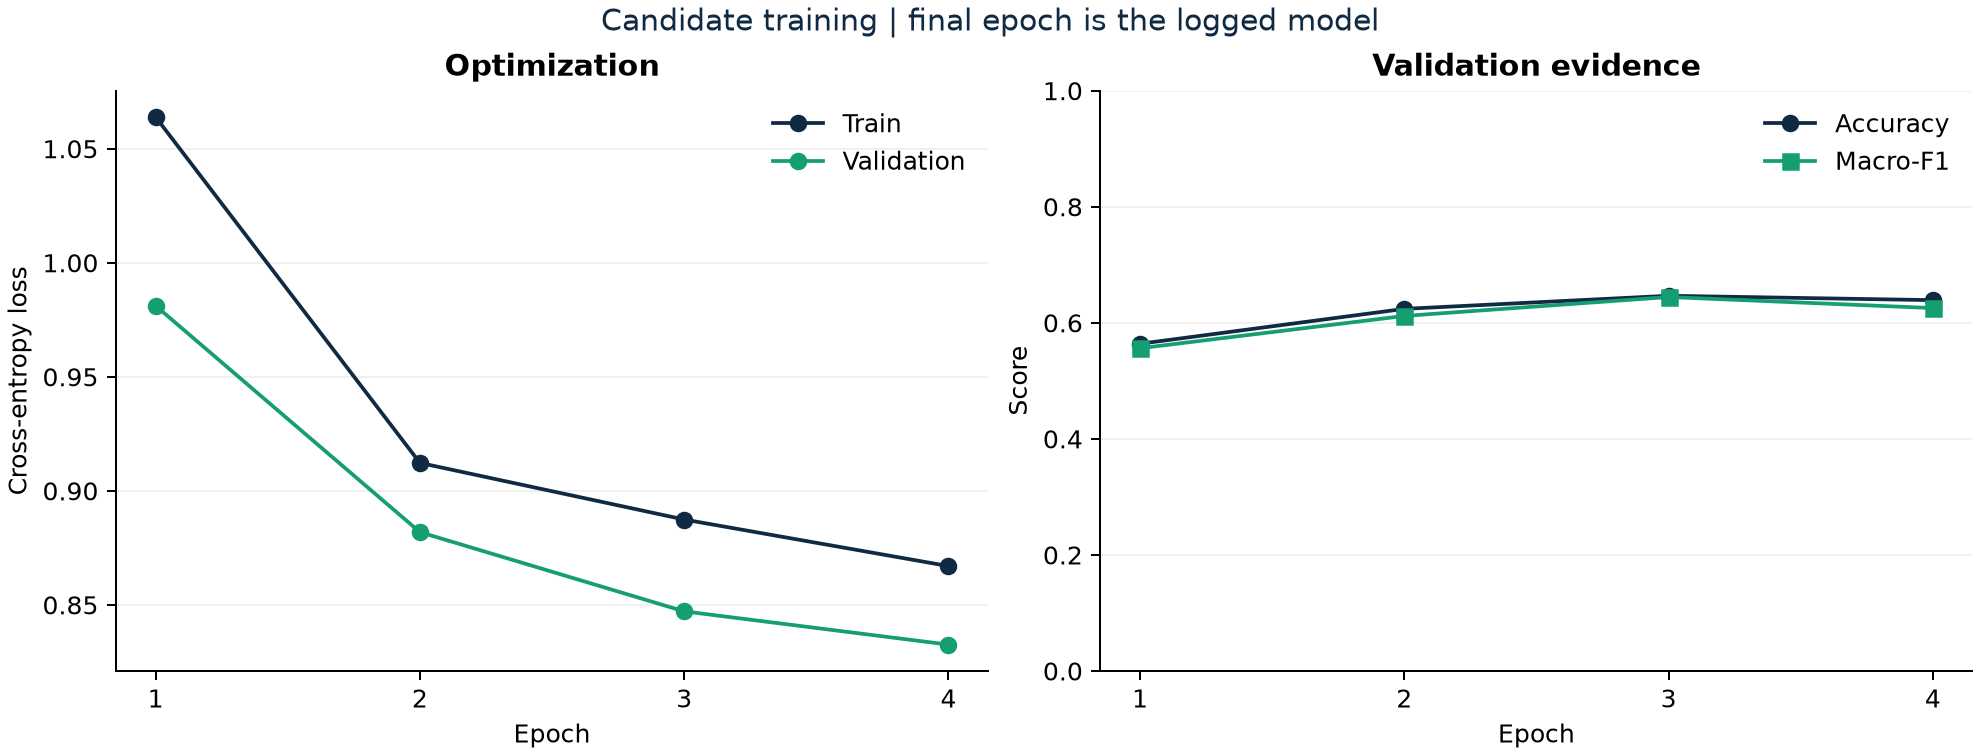
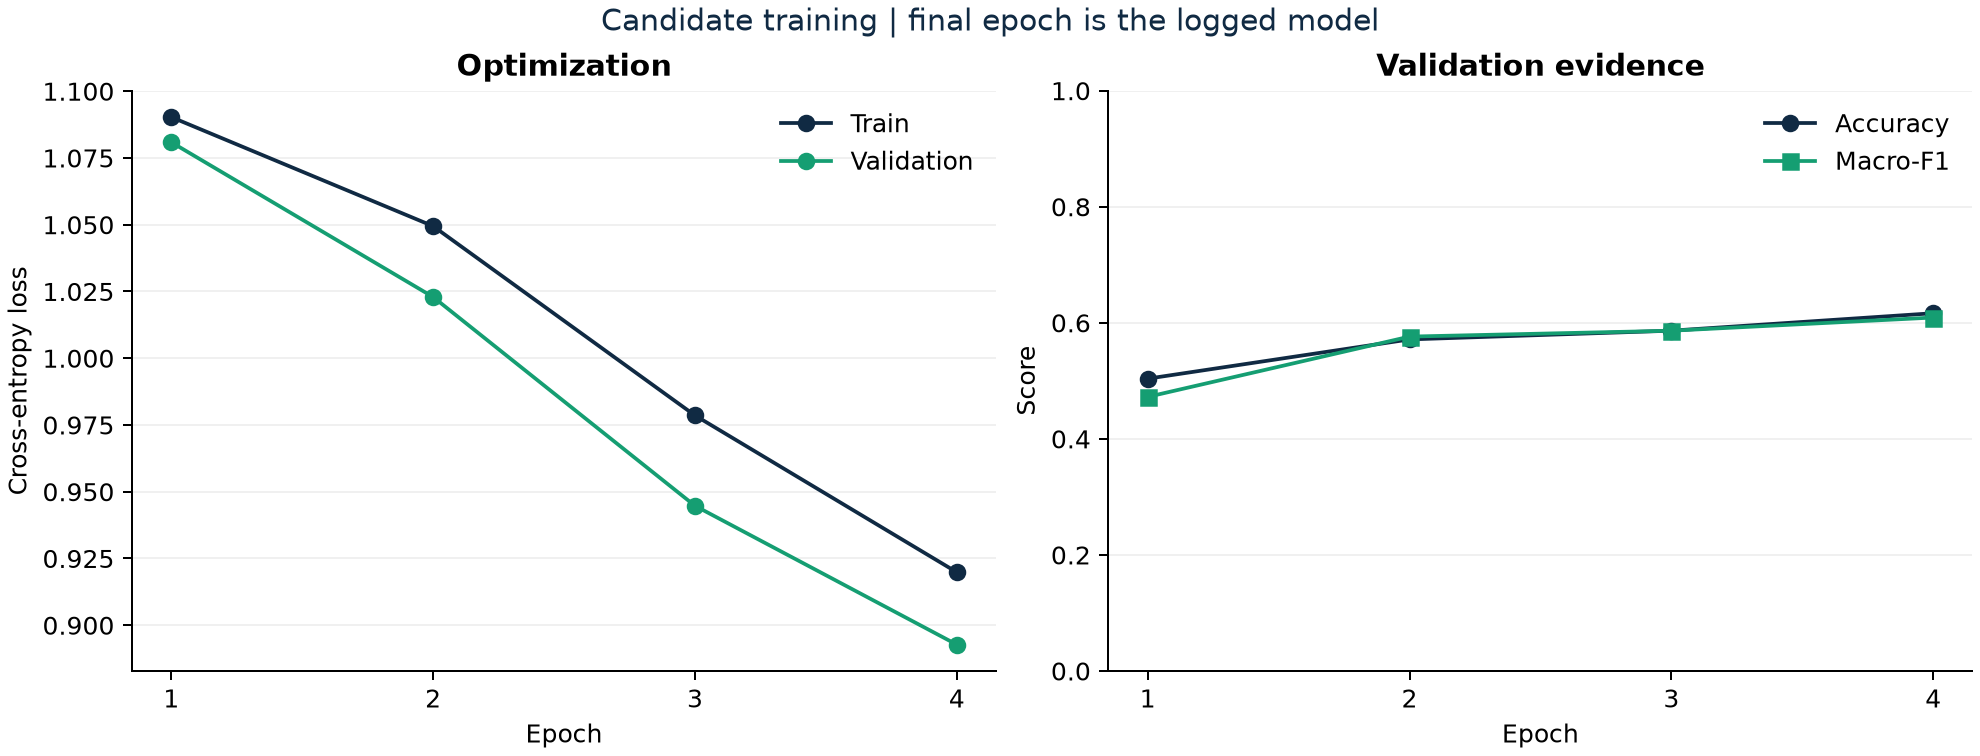
Record Run B and the recomputation checks

diff --git a/LAB_REPORT.md b/LAB_REPORT.md
@@ -111,6 +111,7 @@ The manifest says `dirty: true` for this Run because `LAB_REPORT.md` was edited 
 | First `dvc repro train` (Run A) | RERUN | RERUN | RERUN | NOT RUN |
 | Run again, no change | REUSED | REUSED | REUSED | NOT RUN |
 | Comment in `src/validate_data.py` | RERUN | REUSED | REUSED | NOT RUN |
+| `train.learning_rate` = 0.0003 (Run B) | REUSED | REUSED | RERUN | NOT RUN |
 
 No change:
 
@@ -129,3 +130,15 @@ Updating lock file 'dvc.lock'
 Stage 'prepare' didn't change, skipping
 Stage 'train' didn't change, skipping
 ```
+
+Learning rate 0.0003:
+
+```
+Stage 'validate' didn't change, skipping
+Stage 'prepare' didn't change, skipping
+Running stage 'train':
+```
+
+Run B ID: `4038e99f95aa46488e49ece0e8e6dd1c` (manifest: commit `c9ddf90`, `dirty: false`).
+
+The three checks match my predictions. The first run is the only one where everything ran, because nothing was in the cache yet.
